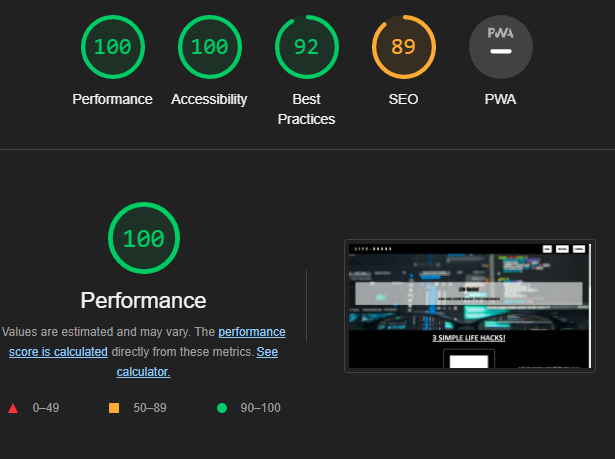
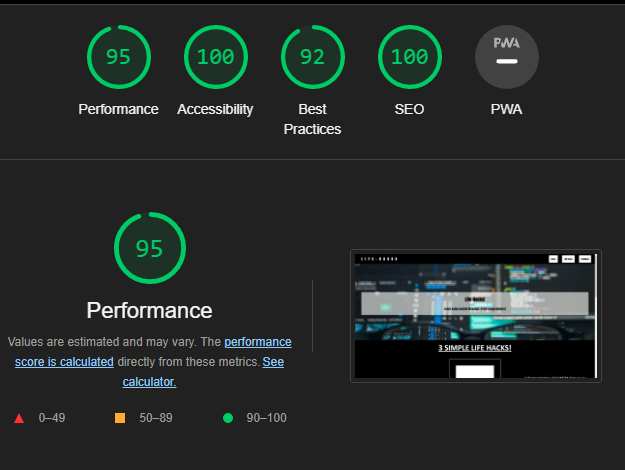
added meta data

diff --git a/index.html b/index.html
@@ -5,6 +5,9 @@
     <meta http-equiv="X-UA-Compatible" content="IE=edge">
     <meta name="viewport" content="width=device-width, initial-scale=1.0">
     <link rel="stylesheet" href="assets/css/styles.css">
+    <meta name="description" content="Life hacks for programmers to make life easier and make thier programming more efficient">
+    <meta name="keywords" content="life hacks, programming tips, programming, coding, tips, programming tips">
+    <meta name="author" content="Ibrahim for Code Institute Portfolio Project 1">
     <title>Life Hacks</title>
 </head>
 <body>

diff --git a/README.md b/README.md
@@ -25,3 +25,11 @@ The site ran through Google Lighthouse for Desktop and Mobile:
 ### Mobile Scores:
 
 ![image](assets/images/lighthouse-test-score-mobile.png)
+
+## SEO (Search Engine Optimisation)
+
+I've added `meta data` and a `title` to the .html pages. This helps Search engines like Google when looking for matches based on what the user searches for. 
+
+I added a `description`, `keywords` and `author`. Search Engines will display the title and description information in their search results.
+
+![image](assets/images/meta-data.png)
